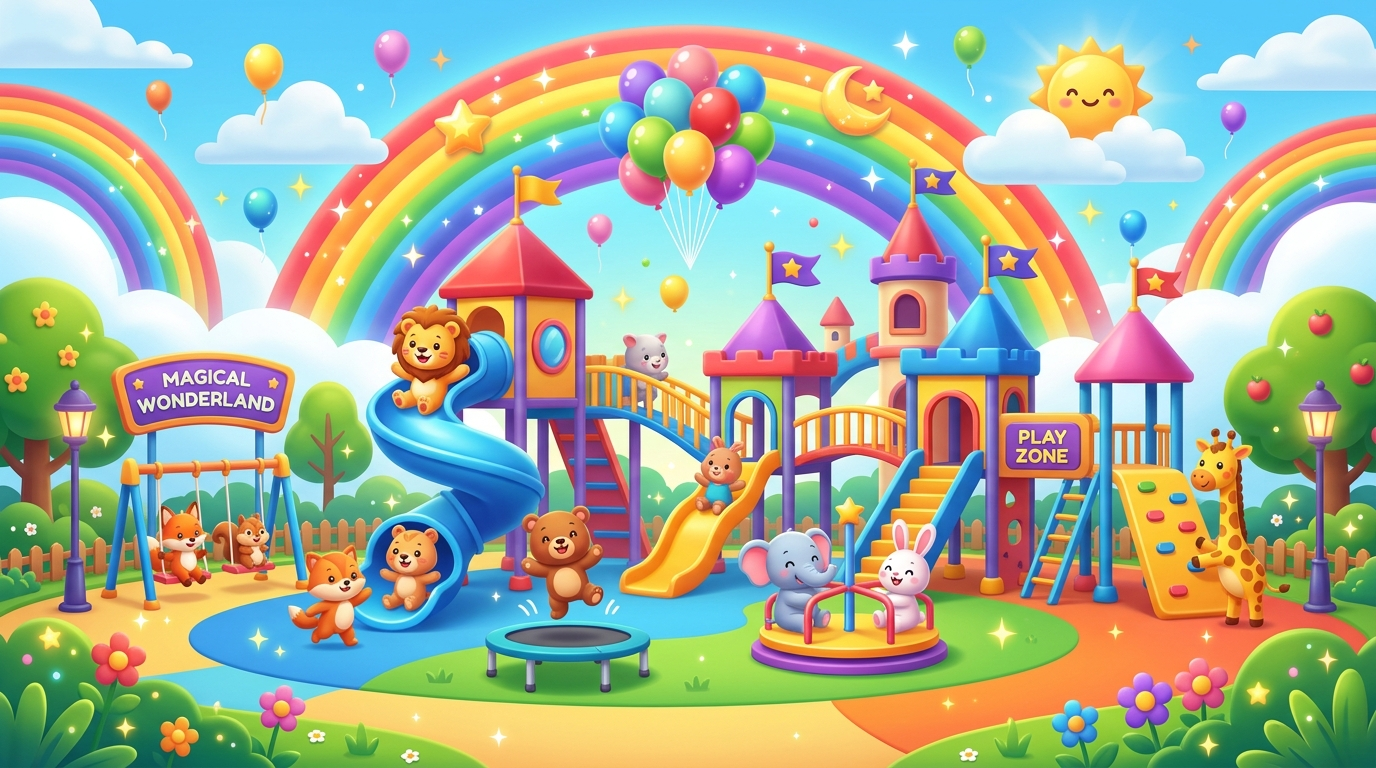
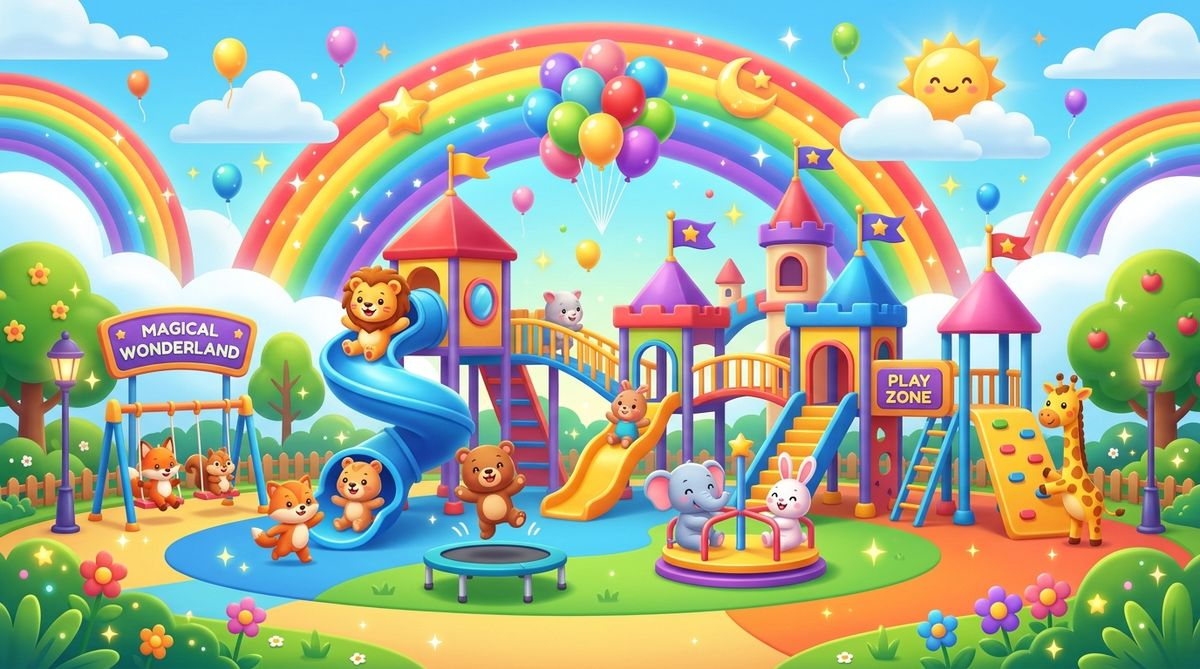
Add Meta Pixel tracking and optimize image assets for ultrafast loading

Changed region(s): [[0.0925, 0.4783, 0.185, 0.5381], [0.74, 0.568, 0.7708, 0.5979]]

diff --git a/index.html b/index.html
@@ -15,8 +15,28 @@
   <title>9,000+ Kids Printable Worksheets & Activity All-In-One Bundle | Just $29</title>
   <link rel="preconnect" href="https://fonts.googleapis.com">
   <link rel="preconnect" href="https://fonts.gstatic.com" crossorigin>
+  <link rel="preconnect" href="https://connect.facebook.net">
+  <link rel="dns-prefetch" href="https://connect.facebook.net">
   <link href="https://fonts.googleapis.com/css2?family=Fredoka:wght@400;600;700&family=Quicksand:wght@500;700&family=Bubblegum+Sans&display=swap" rel="stylesheet">
   <link rel="stylesheet" href="style.css">
+  
+  <!-- Meta Pixel Code -->
+  <script>
+  !function(f,b,e,v,n,t,s)
+  {if(f.fbq)return;n=f.fbq=function(){n.callMethod?
+  n.callMethod.apply(n,arguments):n.queue.push(arguments)};
+  if(!f._fbq)f._fbq=n;n.push=n;n.loaded=!0;n.version='2.0';
+  n.queue=[];t=b.createElement(e);t.async=!0;
+  t.src=v;s=b.getElementsByTagName(e)[0];
+  s.parentNode.insertBefore(t,s)}(window, document,'script',
+  'https://connect.facebook.net/en_US/fbevents.js');
+  fbq('init', '1615257300031982');
+  fbq('track', 'PageView');
+  </script>
+  <noscript><img height="1" width="1" style="display:none"
+  src="https://www.facebook.com/tr?id=1615257300031982&ev=PageView&noscript=1"
+  /></noscript>
+  <!-- End Meta Pixel Code -->
 </head>
 <body>
   <!-- Floating background decorations -->
@@ -136,7 +156,10 @@
       <div class="container creator-grid">
         <div class="creator-media">
           <div class="image-frame">
-            <img src="assets/creator.jpg" alt="Sarah and her toddler" class="creator-img">
+            <picture>
+              <source srcset="assets/creator.webp" type="image/webp">
+              <img src="assets/creator.jpg" alt="Sarah and her toddler" class="creator-img" loading="lazy" decoding="async" width="500" height="280">
+            </picture>
           </div>
         </div>
         <div class="creator-text">
@@ -164,7 +187,10 @@
           <!-- CATEGORY 1 -->
           <div class="inside-card">
             <div class="inside-preview-frame">
-              <img src="https://i.etsystatic.com/66926548/r/il/2ebfee/8284735589/il_794xN.8284735589_4z7o.jpg" alt="Activity Books & Worksheets Preview" class="inside-preview-img">
+              <picture>
+                <source srcset="assets/previews/preview_1.webp" type="image/webp">
+                <img src="assets/previews/preview_1.jpg" alt="Activity Books & Worksheets Preview" class="inside-preview-img" loading="lazy" decoding="async" width="400" height="300">
+              </picture>
             </div>
             <div class="inside-icon">📚</div>
             <h3>Activity Books & Worksheets</h3>
@@ -181,7 +207,10 @@
           <!-- CATEGORY 2 -->
           <div class="inside-card">
             <div class="inside-preview-frame">
-              <img src="https://i.etsystatic.com/66926548/r/il/8ceb9c/8284735591/il_794xN.8284735591_s9dl.jpg" alt="Creative & Fine Motor Activities Preview" class="inside-preview-img">
+              <picture>
+                <source srcset="assets/previews/preview_2.webp" type="image/webp">
+                <img src="assets/previews/preview_2.jpg" alt="Creative & Fine Motor Activities Preview" class="inside-preview-img" loading="lazy" decoding="async" width="400" height="300">
+              </picture>
             </div>
             <div class="inside-icon">🎨</div>
             <h3>Creative & Fine Motor Activities</h3>
@@ -197,7 +226,10 @@
           <!-- CATEGORY 3 -->
           <div class="inside-card">
             <div class="inside-preview-frame">
-              <img src="https://i.etsystatic.com/66926548/r/il/60b75d/8236826758/il_794xN.8236826758_gngx.jpg" alt="2026 Planners & Guided Journals Preview" class="inside-preview-img">
+              <picture>
+                <source srcset="assets/previews/preview_4.webp" type="image/webp">
+                <img src="assets/previews/preview_4.jpg" alt="2026 Planners & Guided Journals Preview" class="inside-preview-img" loading="lazy" decoding="async" width="400" height="300">
+              </picture>
             </div>
             <div class="inside-icon">🗓</div>
             <h3>2026 Planners & Guided Journals</h3>
@@ -226,7 +258,10 @@
         <div class="gallery-grid">
           <div class="gallery-card">
             <div class="gallery-img-wrapper">
-              <img src="https://i.etsystatic.com/66926548/r/il/2ebfee/8284735589/il_794xN.8284735589_4z7o.jpg" alt="Worksheet Bundle Preview 1" class="gallery-img">
+              <picture>
+                <source srcset="assets/previews/preview_1.webp" type="image/webp">
+                <img src="assets/previews/preview_1.jpg" alt="Math & Multiplication Workbooks" class="gallery-img" loading="lazy" decoding="async" width="400" height="300">
+              </picture>
             </div>
             <div class="gallery-caption">
               <h4>🧮 Math & Multiplication Workbooks</h4>
@@ -236,7 +271,10 @@
 
           <div class="gallery-card">
             <div class="gallery-img-wrapper">
-              <img src="https://i.etsystatic.com/66926548/r/il/10dcec/8236826782/il_794xN.8236826782_pv1v.jpg" alt="Worksheet Bundle Preview 2" class="gallery-img">
+              <picture>
+                <source srcset="assets/previews/preview_2.webp" type="image/webp">
+                <img src="assets/previews/preview_2.jpg" alt="Alphabet & Letter Tracing" class="gallery-img" loading="lazy" decoding="async" width="400" height="300">
+              </picture>
             </div>
             <div class="gallery-caption">
               <h4>🔤 Alphabet & Letter Tracing</h4>
@@ -246,7 +284,10 @@
 
           <div class="gallery-card">
             <div class="gallery-img-wrapper">
-              <img src="https://i.etsystatic.com/66926548/r/il/8ceb9c/8284735591/il_794xN.8284735591_s9dl.jpg" alt="Worksheet Bundle Preview 3" class="gallery-img">
+              <picture>
+                <source srcset="assets/previews/preview_3.webp" type="image/webp">
+                <img src="assets/previews/preview_3.jpg" alt="Coloring Books & Fine Motor Scissor Crafts" class="gallery-img" loading="lazy" decoding="async" width="400" height="300">
+              </picture>
             </div>
             <div class="gallery-caption">
               <h4>🎨 Coloring Books & Fine Motor Scissor Crafts</h4>
@@ -256,7 +297,10 @@
 
           <div class="gallery-card">
             <div class="gallery-img-wrapper">
-              <img src="https://i.etsystatic.com/66926548/r/il/60b75d/8236826758/il_794xN.8236826758_gngx.jpg" alt="Worksheet Bundle Preview 4" class="gallery-img">
+              <picture>
+                <source srcset="assets/previews/preview_4.webp" type="image/webp">
+                <img src="assets/previews/preview_4.jpg" alt="2026 ADHD Planners & Journals" class="gallery-img" loading="lazy" decoding="async" width="400" height="300">
+              </picture>
             </div>
             <div class="gallery-caption">
               <h4>🗓 2026 ADHD Planners & Journals</h4>
@@ -546,7 +590,10 @@
         </div>
         <div class="commercial-media">
           <div class="image-frame">
-            <img src="assets/creator.jpg" alt="Commercial Use License Included" class="hero-img">
+            <picture>
+              <source srcset="assets/bundle_mockup.webp" type="image/webp">
+              <img src="assets/bundle_mockup.jpg" alt="Commercial Use License Included" class="hero-img" loading="lazy" decoding="async" width="600" height="338">
+            </picture>
             <div class="floating-badge badge-top-right">💼 Commercial License</div>
           </div>
         </div>
@@ -742,8 +789,6 @@
     </button>
   </div>
 
-
-
   <footer class="footer">
     <div class="container footer-grid">
       <div class="footer-col">
@@ -781,6 +826,6 @@
   </footer>
 
   <canvas id="confetti-canvas"></canvas>
-  <script src="script.js"></script>
+  <script src="script.js" defer></script>
 </body>
 </html>

diff --git a/script.js b/script.js
@@ -174,6 +174,29 @@ document.addEventListener('DOMContentLoaded', () => {
   });
 
   // ==========================================================================
+  // Meta Pixel Tracking Helper
+  // ==========================================================================
+  function trackMetaEvent(eventName, params = {}) {
+    if (typeof window.fbq === 'function') {
+      try {
+        window.fbq('track', eventName, params);
+      } catch (err) {
+        console.warn('Meta Pixel track error:', err);
+      }
+    }
+  }
+
+  // Track ViewContent on landing
+  trackMetaEvent('ViewContent', {
+    content_name: '9,000+ Kids Worksheets & Activity All-In-One Bundle',
+    content_category: 'Preschool & Kindergarten Learning Bundle',
+    content_ids: ['bundle_9000_pages'],
+    content_type: 'product',
+    value: 29.00,
+    currency: 'USD'
+  });
+
+  // ==========================================================================
   // Stripe $29 Checkout Integration & Post-Payment Success Check
   // ==========================================================================
   const checkoutModal = document.getElementById('checkout-modal');
@@ -190,6 +213,15 @@ document.addEventListener('DOMContentLoaded', () => {
   // Check URL parameters for Stripe success return
   const urlParams = new URLSearchParams(window.location.search);
   if (urlParams.has('success') && urlParams.get('success') === 'true') {
+    // Track Meta Purchase Conversion
+    trackMetaEvent('Purchase', {
+      content_name: '9,000+ Kids Worksheets & Activity All-In-One Bundle',
+      content_ids: ['bundle_9000_pages'],
+      content_type: 'product',
+      value: 29.00,
+      currency: 'USD'
+    });
+
     if (successModal) {
       const email = urlParams.get('email');
       const emailText = document.getElementById('success-email-text');
@@ -226,7 +258,16 @@ document.addEventListener('DOMContentLoaded', () => {
   buyBtns.forEach(btn => {
     btn.addEventListener('click', () => {
       const pack = btn.dataset.pack || '9,000+ Worksheets All-In-One Bundle';
-      const price = btn.dataset.price || '29';
+      const price = parseFloat(btn.dataset.price) || 29;
+
+      // Track Meta InitiateCheckout event
+      trackMetaEvent('InitiateCheckout', {
+        content_name: pack,
+        content_ids: ['bundle_9000_pages'],
+        content_type: 'product',
+        value: price,
+        currency: 'USD'
+      });
 
       if (modalPackTitle) modalPackTitle.textContent = pack;
       if (modalPriceDisplay) modalPriceDisplay.textContent = `$${price}`;
@@ -247,6 +288,13 @@ document.addEventListener('DOMContentLoaded', () => {
       const emailInput = document.getElementById('checkout-email');
       const name = nameInput ? nameInput.value.trim() : '';
       const email = emailInput ? emailInput.value.trim() : '';
+
+      // Track Meta AddPaymentInfo event
+      trackMetaEvent('AddPaymentInfo', {
+        content_name: '9,000+ Kids Worksheets & Activity All-In-One Bundle',
+        value: 29.00,
+        currency: 'USD'
+      });
 
       if (checkoutSubmitBtn) {
         checkoutSubmitBtn.disabled = true;

diff --git a/toys.html b/toys.html
@@ -14,8 +14,28 @@
   <title>AvadaLearn Kids Interactive Play Zone 🎮 Free Kids Toys & Games</title>
   <link rel="preconnect" href="https://fonts.googleapis.com">
   <link rel="preconnect" href="https://fonts.gstatic.com" crossorigin>
+  <link rel="preconnect" href="https://connect.facebook.net">
+  <link rel="dns-prefetch" href="https://connect.facebook.net">
   <link href="https://fonts.googleapis.com/css2?family=Fredoka:wght@400;600;700&family=Quicksand:wght@500;700&family=Bubblegum+Sans&display=swap" rel="stylesheet">
   <link rel="stylesheet" href="style.css">
+  
+  <!-- Meta Pixel Code -->
+  <script>
+  !function(f,b,e,v,n,t,s)
+  {if(f.fbq)return;n=f.fbq=function(){n.callMethod?
+  n.callMethod.apply(n,arguments):n.queue.push(arguments)};
+  if(!f._fbq)f._fbq=n;n.push=n;n.loaded=!0;n.version='2.0';
+  n.queue=[];t=b.createElement(e);t.async=!0;
+  t.src=v;s=b.getElementsByTagName(e)[0];
+  s.parentNode.insertBefore(t,s)}(window, document,'script',
+  'https://connect.facebook.net/en_US/fbevents.js');
+  fbq('init', '1615257300031982');
+  fbq('track', 'PageView');
+  </script>
+  <noscript><img height="1" width="1" style="display:none"
+  src="https://www.facebook.com/tr?id=1615257300031982&ev=PageView&noscript=1"
+  /></noscript>
+  <!-- End Meta Pixel Code -->
 </head>
 <body>
   <!-- Floating background decorations -->
@@ -217,6 +237,6 @@
   </footer>
 
   <canvas id="confetti-canvas"></canvas>
-  <script src="script.js"></script>
+  <script src="script.js" defer></script>
 </body>
 </html>
